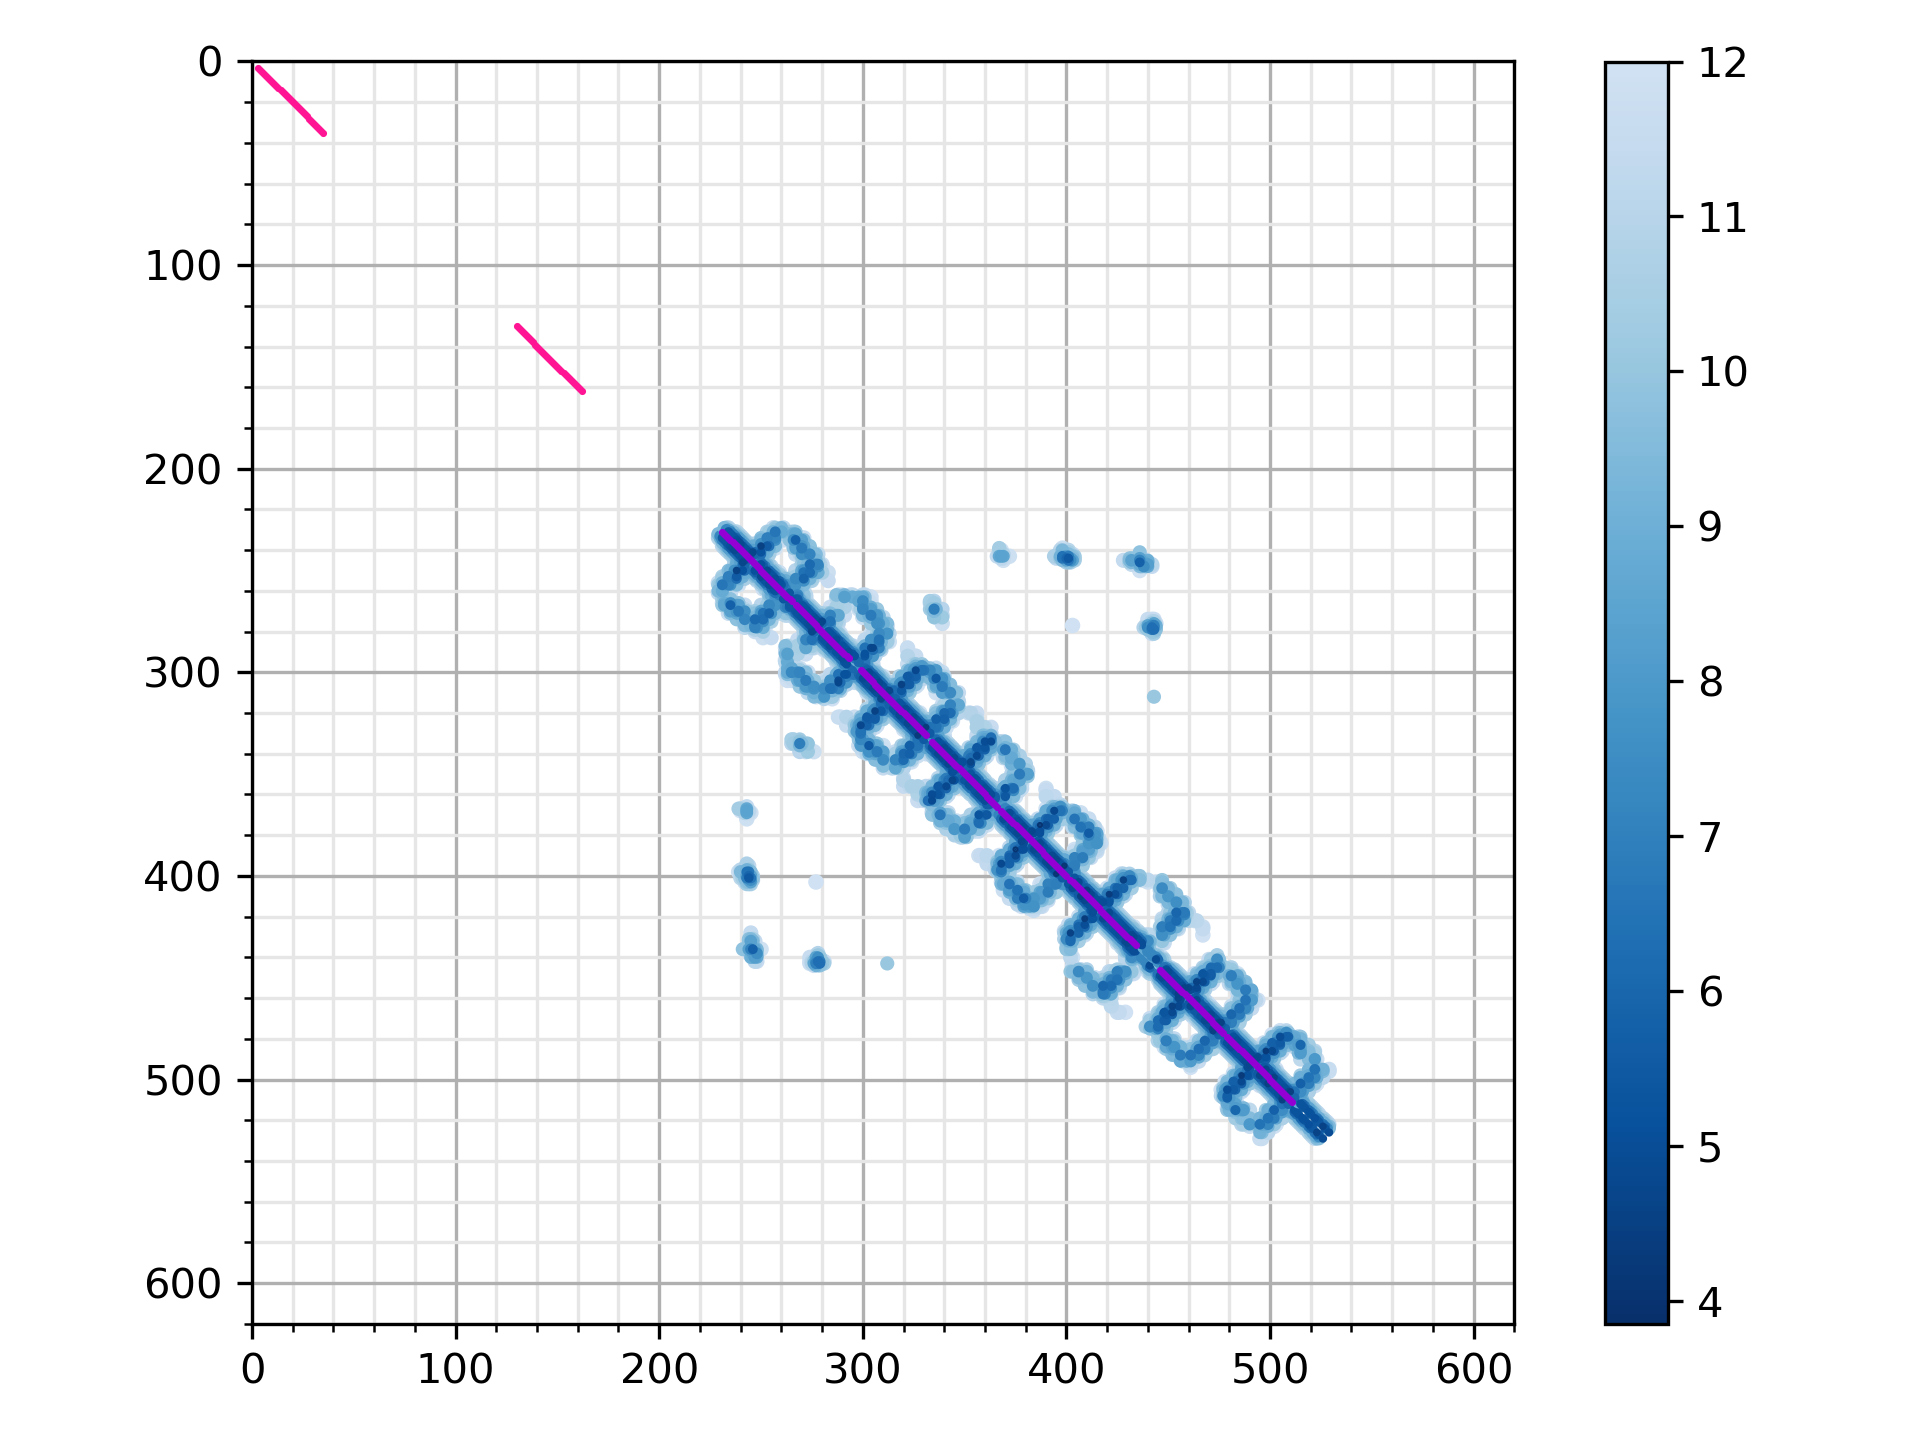
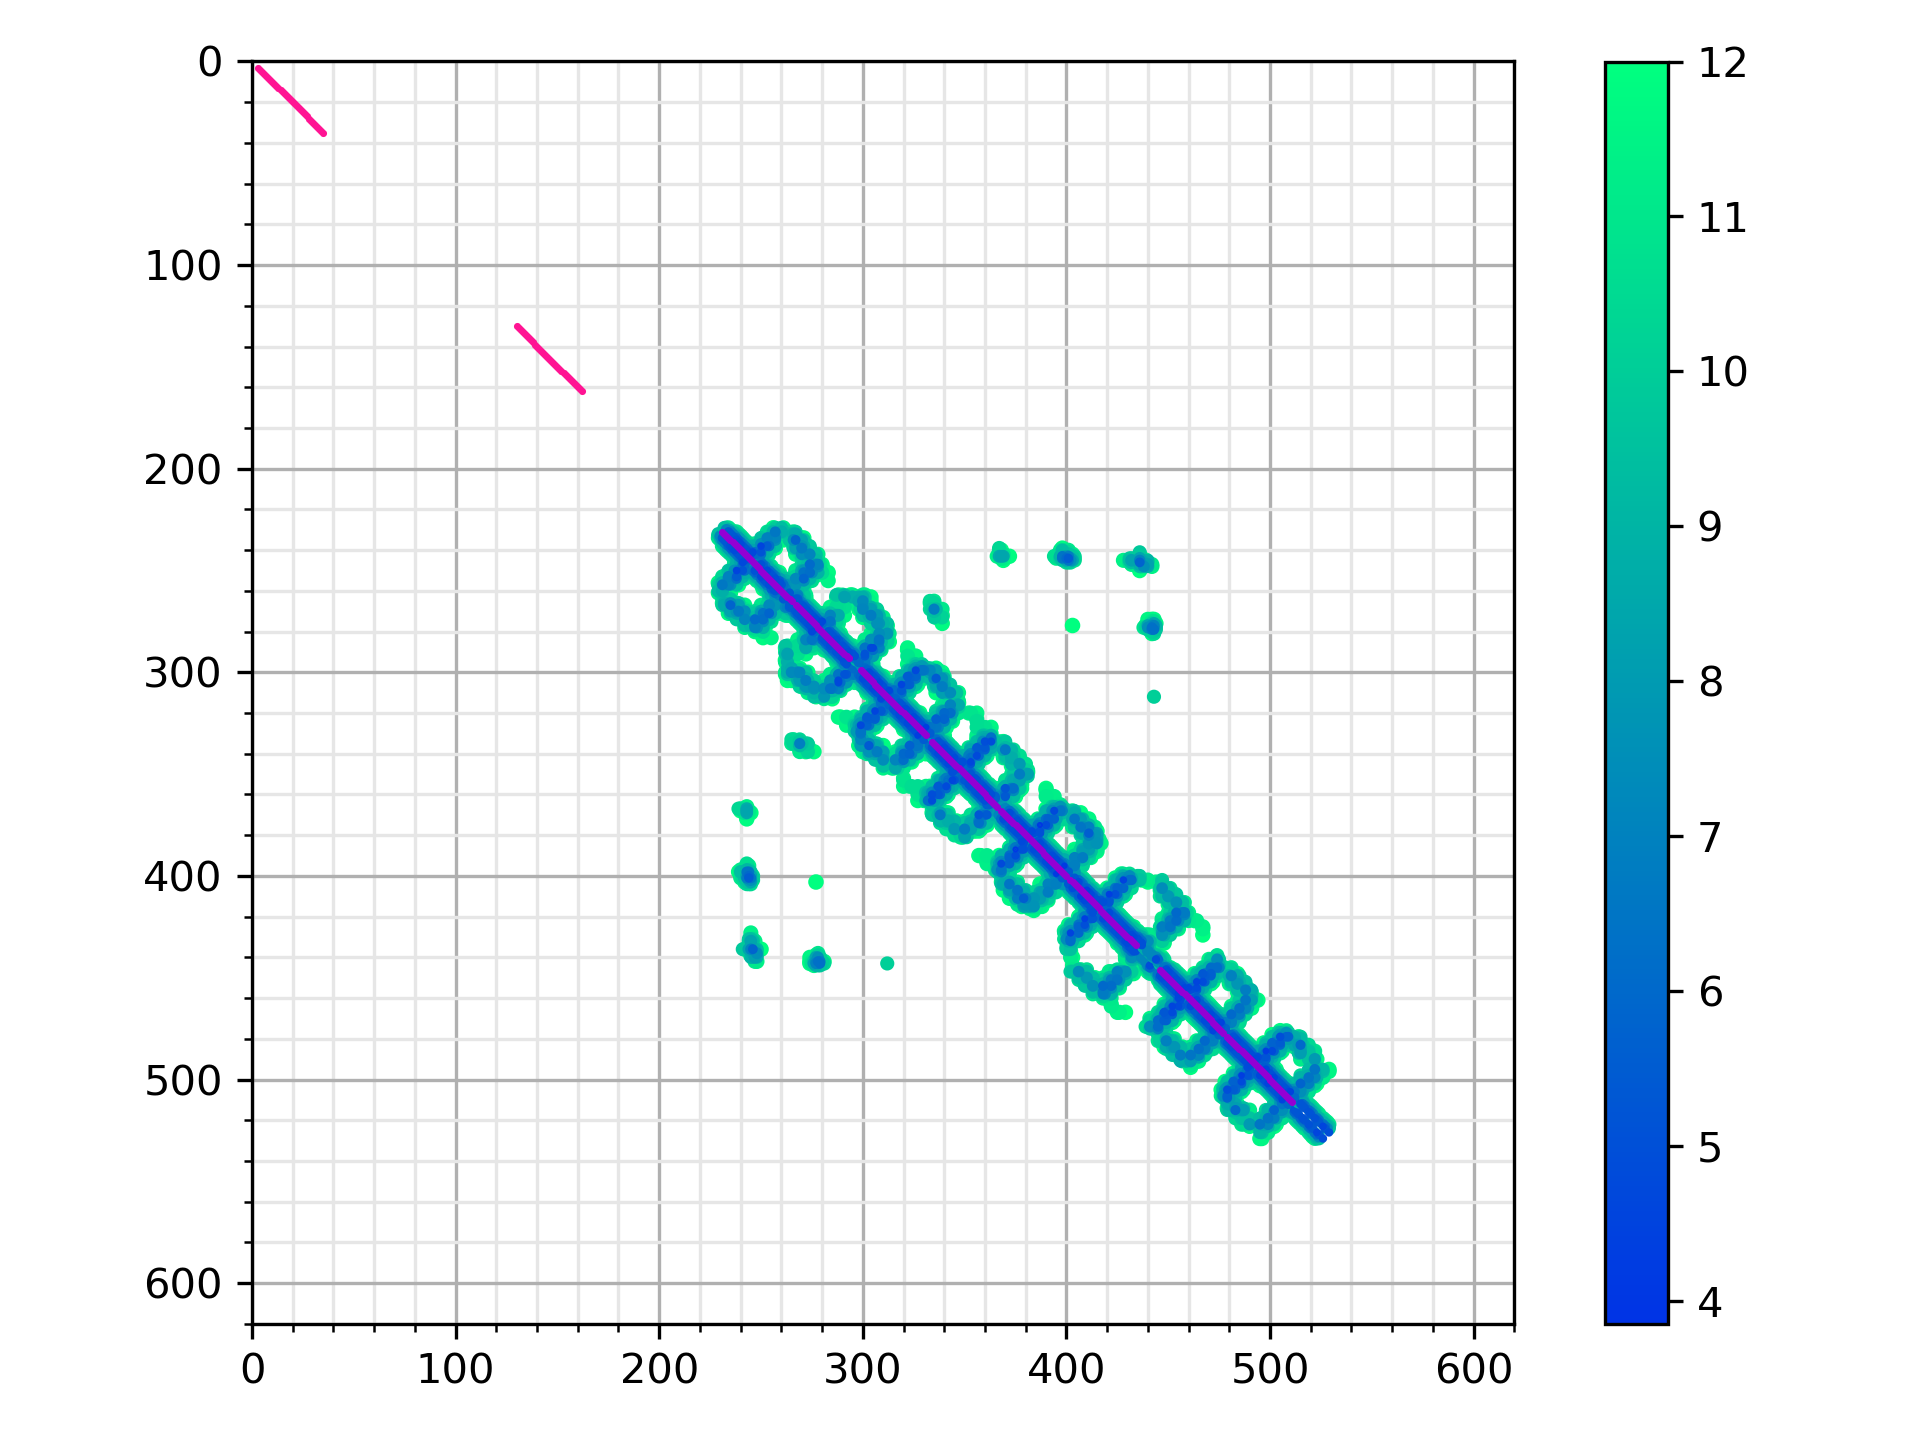
redoing plots, made s_score vs distance plots like in the gremlin paper

diff --git a/monomer-analysis/contact-plot-PilF.py b/monomer-analysis/contact-plot-PilF.py
@@ -5,7 +5,7 @@ from matplotlib.ticker import MultipleLocator, AutoMinorLocator
 import matplotlib.colors as mcolors
 import sys
 
-data = 'other-tpr-proteins/PilF-contact-prediction-scores.tsv'
+data = 'other-tpr-proteins/pilf-contact-prediction-scores.tsv'
 
 #~~~~~~~~~~~~~~~~~~
 # GET GREMLIN DATA
@@ -55,7 +55,7 @@ def truncate_colormap(cmap, minval=0.0, maxval=1.0, n=-1):
 cp = truncate_colormap(plt.get_cmap('winter_r'), 0.05, 1)
 
 fig, ax = plt.subplots()
-plt.scatter(x, y, marker='.', s=15, c=mtx[x,y], cmap=cp)
+abc = plt.scatter(x, y, marker='.', s=15, c=mtx[x,y], cmap=cp)
 plt.scatter(tpr1, tpr1, marker='.', color='darkviolet', s=5)
 plt.scatter(tpr2, tpr2, marker='.', color='darkviolet', s=5)
 plt.scatter(tpr3, tpr3, marker='.', color='darkviolet', s=5)
@@ -63,7 +63,7 @@ plt.scatter(tpr4, tpr4, marker='.', color='darkviolet', s=5)
 plt.scatter(tpr5, tpr5, marker='.', color='darkviolet', s=5)
 plt.scatter(tpr6, tpr6, marker='.', color='darkviolet', s=5)
 
-# plt.colorbar()
+plt.colorbar(abc)
 
 ax.xaxis.set_minor_locator(AutoMinorLocator(n=5))
 ax.yaxis.set_minor_locator(AutoMinorLocator(n=5))

diff --git a/monomer-analysis/contact-plot-MamA.py b/monomer-analysis/contact-plot-MamA.py
@@ -5,7 +5,7 @@ from matplotlib.ticker import MultipleLocator, AutoMinorLocator
 import matplotlib.colors as mcolors
 import sys
 
-data = 'other-tpr-proteins/MamA-contact-prediction-scores.tsv'
+data = 'other-tpr-proteins/mama-contact-prediction-scores.tsv'
 
 #~~~~~~~~~~~~~~~~~~
 # GET GREMLIN DATA
@@ -55,7 +55,7 @@ def truncate_colormap(cmap, minval=0.0, maxval=1.0, n=-1):
 cp = truncate_colormap(plt.get_cmap('winter_r'), 0.05, 1)
 
 fig, ax = plt.subplots()
-plt.scatter(x, y, marker='.', s=15, c=mtx[x,y], cmap=cp)
+abc = plt.scatter(x, y, marker='.', s=15, c=mtx[x,y], cmap=cp)
 plt.scatter(tpr1, tpr1, marker='.', color='darkviolet', s=5)
 plt.scatter(tpr2, tpr2, marker='.', color='darkviolet', s=5)
 plt.scatter(tpr3, tpr3, marker='.', color='darkviolet', s=5)
@@ -64,7 +64,7 @@ plt.scatter(tpr5, tpr5, marker='.', color='darkviolet', s=5)
 
 plt.scatter(tpra, tpra, marker='.', color='deeppink', s=5)
 
-# plt.colorbar()
+plt.colorbar(abc)
 
 ax.xaxis.set_minor_locator(AutoMinorLocator(n=5))
 ax.yaxis.set_minor_locator(AutoMinorLocator(n=5))

diff --git a/monomer-analysis/contact-plot-APC6.py b/monomer-analysis/contact-plot-APC6.py
@@ -61,7 +61,7 @@ def truncate_colormap(cmap, minval=0.0, maxval=1.0, n=-1):
 cp = truncate_colormap(plt.get_cmap('winter_r'), 0.05, 1)
 
 fig, ax = plt.subplots()
-plt.scatter(x, y, marker='.', s=15, c=mtx[x,y], cmap=cp)
+abc = plt.scatter(x, y, marker='.', s=15, c=mtx[x,y], cmap=cp)
 plt.scatter(tpr1, tpr1, marker='.', color='darkviolet', s=2)
 plt.scatter(tpr2, tpr2, marker='.', color='darkviolet', s=2)
 plt.scatter(tpr3, tpr3, marker='.', color='darkviolet', s=2)
@@ -74,7 +74,7 @@ plt.scatter(tpr8, tpr8, marker='.', color='darkviolet', s=2)
 
 plt.scatter(tpra, tpra, marker='.', color='deeppink', s=2)
 plt.scatter(tprb, tprb, marker='.', color='deeppink', s=2)
-# plt.colorbar()
+plt.colorbar(abc)
 
 ax.xaxis.set_minor_locator(AutoMinorLocator(n=5))
 ax.yaxis.set_minor_locator(AutoMinorLocator(n=5))

diff --git a/contact-plots-from-pdb/contact-plot-distance-mama.py b/contact-plots-from-pdb/contact-plot-distance-mama.py
@@ -48,7 +48,7 @@ def truncate_colormap(cmap, minval=0.0, maxval=1.0, n=-1):
 	new_cmap = mcolors.LinearSegmentedColormap.from_list('trunc({name},{a:.2f},{b:.2f})'.format(name=cmap.name, a=minval, b=maxval), cmap(np.linspace(minval, maxval, n)))
 	return new_cmap
 
-cp = truncate_colormap(plt.get_cmap('Blues_r'), 0, 0.75)
+cp = truncate_colormap(plt.get_cmap('winter'), 0.2, 1)
 
 fig, ax = plt.subplots()
 abc = plt.scatter(x, y, marker='.', s=s+s, c=mtx[x,y], cmap=cp)

diff --git a/contact-plots-from-pdb/contact-plot-distance-apc6.py b/contact-plots-from-pdb/contact-plot-distance-apc6.py
@@ -54,7 +54,7 @@ def truncate_colormap(cmap, minval=0.0, maxval=1.0, n=-1):
 	new_cmap = mcolors.LinearSegmentedColormap.from_list('trunc({name},{a:.2f},{b:.2f})'.format(name=cmap.name, a=minval, b=maxval), cmap(np.linspace(minval, maxval, n)))
 	return new_cmap
 
-cp = truncate_colormap(plt.get_cmap('Blues_r'), 0, 0.8)
+cp = truncate_colormap(plt.get_cmap('winter'), 0.2, 1)
 
 fig, ax = plt.subplots()
 abc = plt.scatter(x, y, marker='.', s=s+s, c=mtx[x,y], cmap=cp)

diff --git a/contact-plots-from-pdb/contact-plot-distance-pilf.py b/contact-plots-from-pdb/contact-plot-distance-pilf.py
@@ -49,7 +49,7 @@ def truncate_colormap(cmap, minval=0.0, maxval=1.0, n=-1):
 	new_cmap = mcolors.LinearSegmentedColormap.from_list('trunc({name},{a:.2f},{b:.2f})'.format(name=cmap.name, a=minval, b=maxval), cmap(np.linspace(minval, maxval, n)))
 	return new_cmap
 
-cp = truncate_colormap(plt.get_cmap('Blues_r'), 0, 0.8)
+cp = truncate_colormap(plt.get_cmap('winter'), 0.2, 1)
 
 fig, ax = plt.subplots()
 abc = plt.scatter(x, y, marker='.', s=s+s, c=mtx[x,y], cmap=cp)
